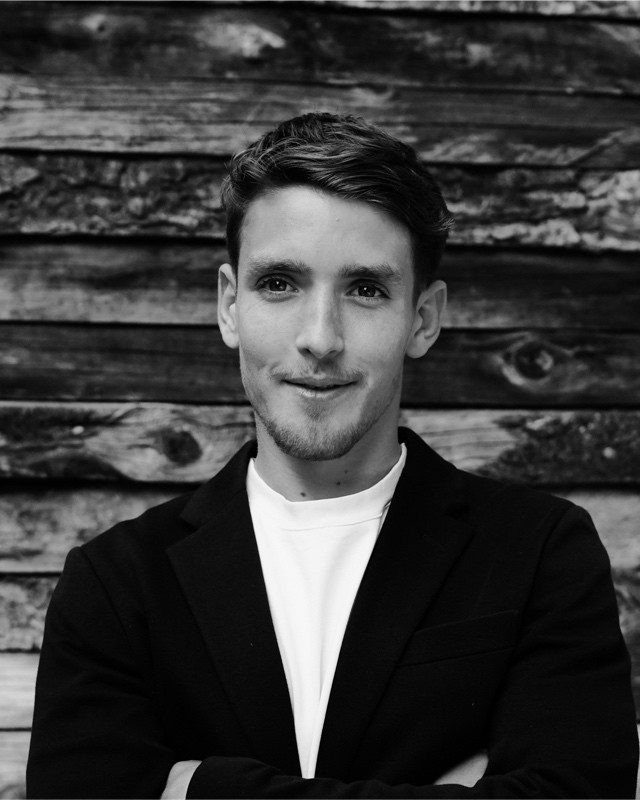
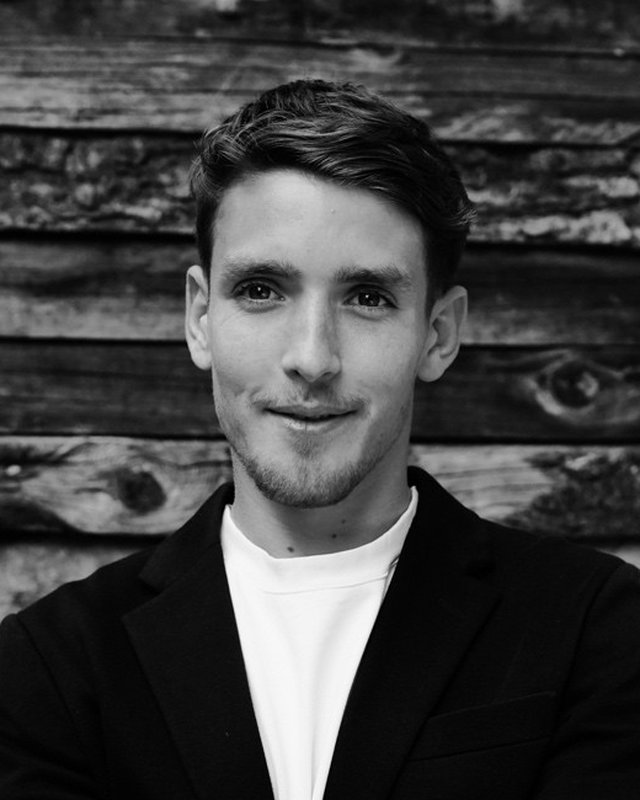
Aperçu : meilleur cadrage des photos de l'équipe
Claude-Session: https://claude.ai/code/session_01GMHWC4ENwSVGhvJA1BhhUa

diff --git a/apercu/index.html b/apercu/index.html
@@ -140,7 +140,7 @@ h2{margin:0 0 16px;font:700 clamp(26px,3.6vw,46px)/1.08 var(--display);text-tran
 .team{display:grid;grid-template-columns:repeat(2,minmax(0,1fr));gap:16px}
 .member{display:grid;grid-template-columns:150px minmax(0,1fr);gap:22px;align-items:center;padding:20px;border:1px solid var(--line);border-radius:18px;background:var(--surface)}
 .member .ph{width:150px;height:180px;border-radius:12px;overflow:hidden;background:var(--raise);display:grid;place-items:center}
-.member .ph img{width:100%;height:100%;object-fit:cover}
+.member .ph img{width:100%;height:100%;object-fit:cover;object-position:50% 22%}
 .member .ph span{font:700 34px/1 var(--display);color:var(--image)}
 .member h3{margin:0 0 4px;font:700 19px/1.2 var(--display);text-transform:uppercase}
 .member .role{margin:0 0 12px;font-weight:600}
@@ -148,7 +148,7 @@ h2{margin:0 0 16px;font:700 clamp(26px,3.6vw,46px)/1.08 var(--display);text-tran
 .member p{margin:0 0 14px;color:var(--muted);font-size:16px}
 .member blockquote{margin:0 0 14px;font-size:18px;line-height:1.5;color:var(--text);font-style:italic}
 @media (max-width:900px){.team{grid-template-columns:1fr}}
-@media (max-width:460px){.member{grid-template-columns:1fr}.member .ph{width:100%;height:240px}}
+@media (max-width:460px){.member{grid-template-columns:1fr}.member .ph{width:100%;height:auto;aspect-ratio:1/1}}
 
 /* Pricing + steps */
 .steps{list-style:none;margin:0;padding:0;display:grid;grid-template-columns:repeat(3,minmax(0,1fr));gap:16px;counter-reset:s}
